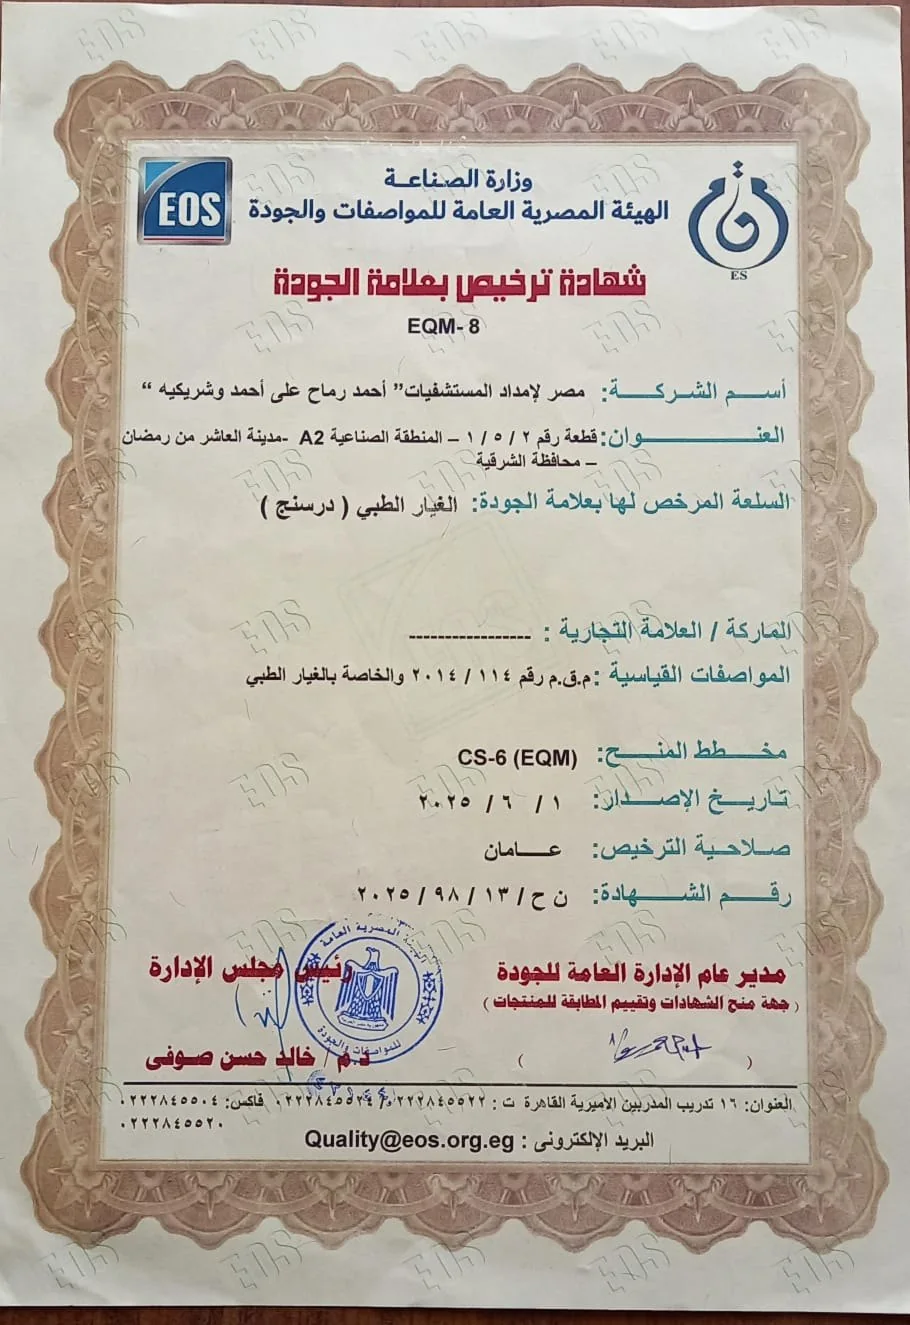
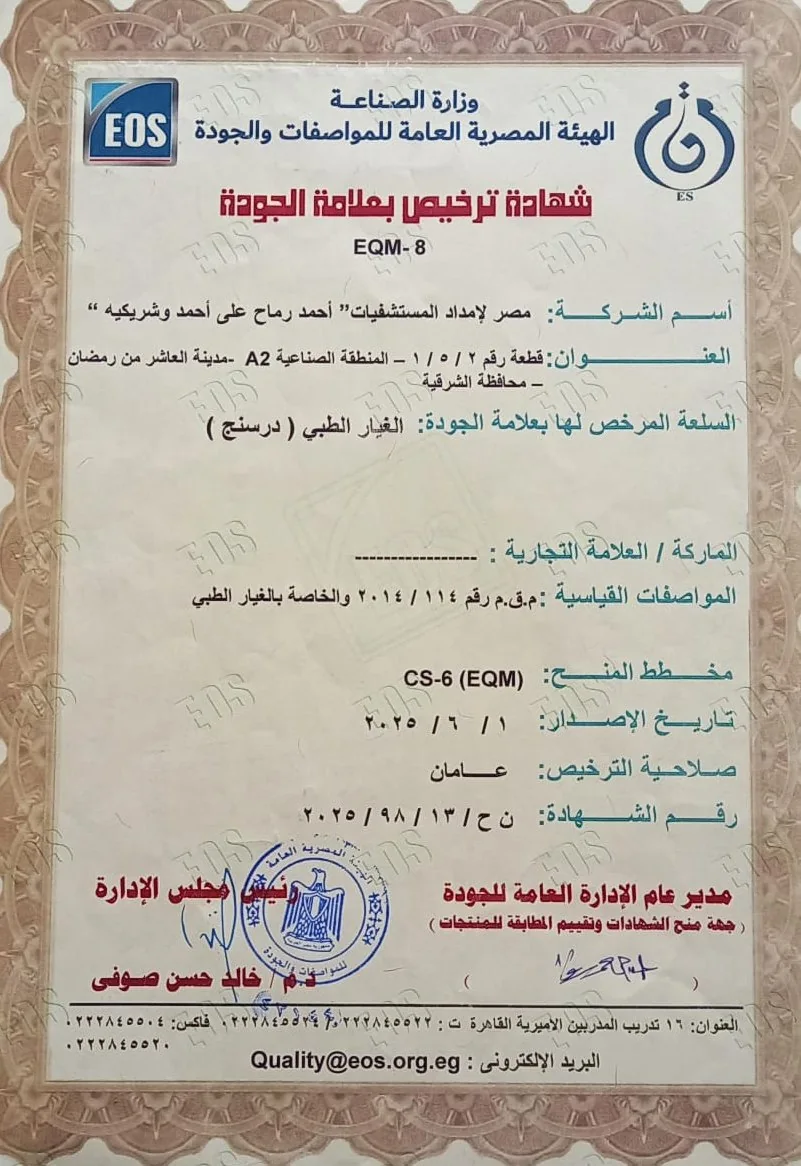
Crop the certificate edges out
Both scans trimmed 6% on every side, which loses the paper edge and the
shadow around it while keeping the decorative border and every line of
text intact — 8% started cutting the border. Declared dimensions updated
to the new sizes so the layout reserves the right box.

diff --git a/ar/about.html b/ar/about.html
@@ -281,7 +281,7 @@
     <div class="grid grid--2 mt-32">
       <div class="card card--flat reveal">
         <a class="img-frame img-frame--zoom" href="../assets/img/certs/eos-gauze.jpg" target="_blank" rel="noopener" title="فتح الشهادة كاملة">
-          <img src="../assets/img/certs/eos-gauze.webp" alt="شهادة ترخيص بعلامة الجودة للشاش القطني الطبي الماص، رقم ١١/٩٦/٢٠٢٥" width="1093" height="1555" loading="lazy">
+          <img src="../assets/img/certs/eos-gauze.webp" alt="شهادة ترخيص بعلامة الجودة للشاش القطني الطبي الماص، رقم ١١/٩٦/٢٠٢٥" width="962" height="1368" loading="lazy">
         </a>
         <h3 class="h4 mt-24">الشاش القطني الطبي الماص</h3>
         <ul class="feature-list mt-16">
@@ -291,7 +291,7 @@
       </div>
       <div class="card card--flat reveal reveal-d1">
         <a class="img-frame img-frame--zoom" href="../assets/img/certs/eos-dressing.jpg" target="_blank" rel="noopener" title="فتح الشهادة كاملة">
-          <img src="../assets/img/certs/eos-dressing.webp" alt="شهادة ترخيص بعلامة الجودة للغيار الطبي، رقم ١٣/٩٨/٢٠٢٥" width="910" height="1325" loading="lazy">
+          <img src="../assets/img/certs/eos-dressing.webp" alt="شهادة ترخيص بعلامة الجودة للغيار الطبي، رقم ١٣/٩٨/٢٠٢٥" width="801" height="1166" loading="lazy">
         </a>
         <h3 class="h4 mt-24">الغيار الطبي (درسنج)</h3>
         <ul class="feature-list mt-16">

diff --git a/_build/content/ar/about.html b/_build/content/ar/about.html
@@ -204,7 +204,7 @@
     <div class="grid grid--2 mt-32">
       <div class="card card--flat reveal">
         <a class="img-frame img-frame--zoom" href="{{A}}/img/certs/eos-gauze.jpg" target="_blank" rel="noopener" title="فتح الشهادة كاملة">
-          <img src="{{A}}/img/certs/eos-gauze.webp" alt="شهادة ترخيص بعلامة الجودة للشاش القطني الطبي الماص، رقم ١١/٩٦/٢٠٢٥" width="1093" height="1555" loading="lazy">
+          <img src="{{A}}/img/certs/eos-gauze.webp" alt="شهادة ترخيص بعلامة الجودة للشاش القطني الطبي الماص، رقم ١١/٩٦/٢٠٢٥" width="962" height="1368" loading="lazy">
         </a>
         <h3 class="h4 mt-24">الشاش القطني الطبي الماص</h3>
         <ul class="feature-list mt-16">
@@ -214,7 +214,7 @@
       </div>
       <div class="card card--flat reveal reveal-d1">
         <a class="img-frame img-frame--zoom" href="{{A}}/img/certs/eos-dressing.jpg" target="_blank" rel="noopener" title="فتح الشهادة كاملة">
-          <img src="{{A}}/img/certs/eos-dressing.webp" alt="شهادة ترخيص بعلامة الجودة للغيار الطبي، رقم ١٣/٩٨/٢٠٢٥" width="910" height="1325" loading="lazy">
+          <img src="{{A}}/img/certs/eos-dressing.webp" alt="شهادة ترخيص بعلامة الجودة للغيار الطبي، رقم ١٣/٩٨/٢٠٢٥" width="801" height="1166" loading="lazy">
         </a>
         <h3 class="h4 mt-24">الغيار الطبي (درسنج)</h3>
         <ul class="feature-list mt-16">

diff --git a/about.html b/about.html
@@ -281,7 +281,7 @@
     <div class="grid grid--2 mt-32">
       <div class="card card--flat reveal">
         <a class="img-frame img-frame--zoom" href="assets/img/certs/eos-gauze.jpg" target="_blank" rel="noopener" title="Open the full certificate">
-          <img src="assets/img/certs/eos-gauze.webp" alt="EOS Quality Mark licence for absorbent medical cotton gauze, certificate number 11/96/2025" width="1093" height="1555" loading="lazy">
+          <img src="assets/img/certs/eos-gauze.webp" alt="EOS Quality Mark licence for absorbent medical cotton gauze, certificate number 11/96/2025" width="962" height="1368" loading="lazy">
         </a>
         <h3 class="h4 mt-24">Absorbent medical cotton gauze</h3>
         <ul class="feature-list mt-16">
@@ -291,7 +291,7 @@
       </div>
       <div class="card card--flat reveal reveal-d1">
         <a class="img-frame img-frame--zoom" href="assets/img/certs/eos-dressing.jpg" target="_blank" rel="noopener" title="Open the full certificate">
-          <img src="assets/img/certs/eos-dressing.webp" alt="EOS Quality Mark licence for medical dressing, certificate number 13/98/2025" width="910" height="1325" loading="lazy">
+          <img src="assets/img/certs/eos-dressing.webp" alt="EOS Quality Mark licence for medical dressing, certificate number 13/98/2025" width="801" height="1166" loading="lazy">
         </a>
         <h3 class="h4 mt-24">Medical dressing</h3>
         <ul class="feature-list mt-16">

diff --git a/_build/content/en/about.html b/_build/content/en/about.html
@@ -204,7 +204,7 @@
     <div class="grid grid--2 mt-32">
       <div class="card card--flat reveal">
         <a class="img-frame img-frame--zoom" href="{{A}}/img/certs/eos-gauze.jpg" target="_blank" rel="noopener" title="Open the full certificate">
-          <img src="{{A}}/img/certs/eos-gauze.webp" alt="EOS Quality Mark licence for absorbent medical cotton gauze, certificate number 11/96/2025" width="1093" height="1555" loading="lazy">
+          <img src="{{A}}/img/certs/eos-gauze.webp" alt="EOS Quality Mark licence for absorbent medical cotton gauze, certificate number 11/96/2025" width="962" height="1368" loading="lazy">
         </a>
         <h3 class="h4 mt-24">Absorbent medical cotton gauze</h3>
         <ul class="feature-list mt-16">
@@ -214,7 +214,7 @@
       </div>
       <div class="card card--flat reveal reveal-d1">
         <a class="img-frame img-frame--zoom" href="{{A}}/img/certs/eos-dressing.jpg" target="_blank" rel="noopener" title="Open the full certificate">
-          <img src="{{A}}/img/certs/eos-dressing.webp" alt="EOS Quality Mark licence for medical dressing, certificate number 13/98/2025" width="910" height="1325" loading="lazy">
+          <img src="{{A}}/img/certs/eos-dressing.webp" alt="EOS Quality Mark licence for medical dressing, certificate number 13/98/2025" width="801" height="1166" loading="lazy">
         </a>
         <h3 class="h4 mt-24">Medical dressing</h3>
         <ul class="feature-list mt-16">
